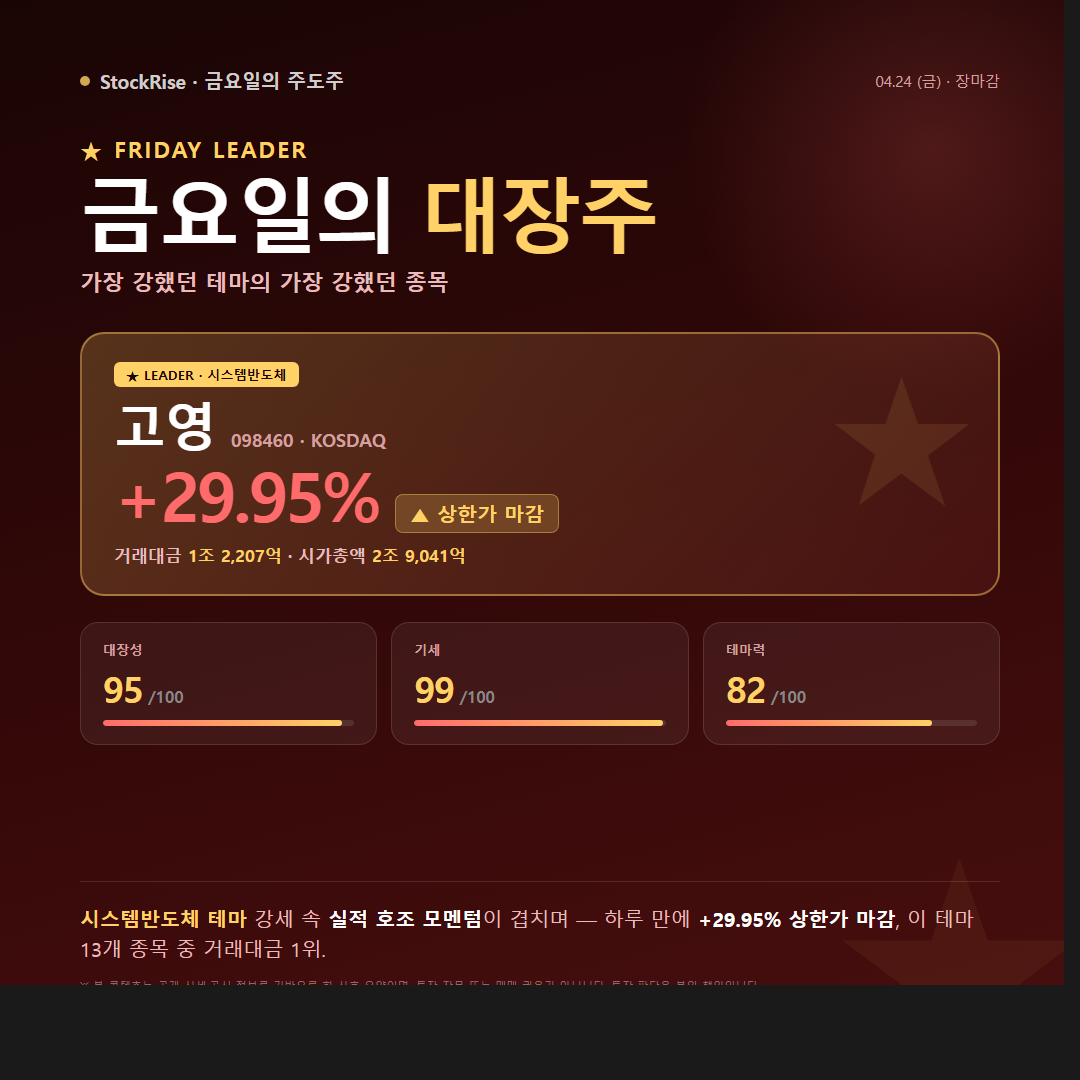
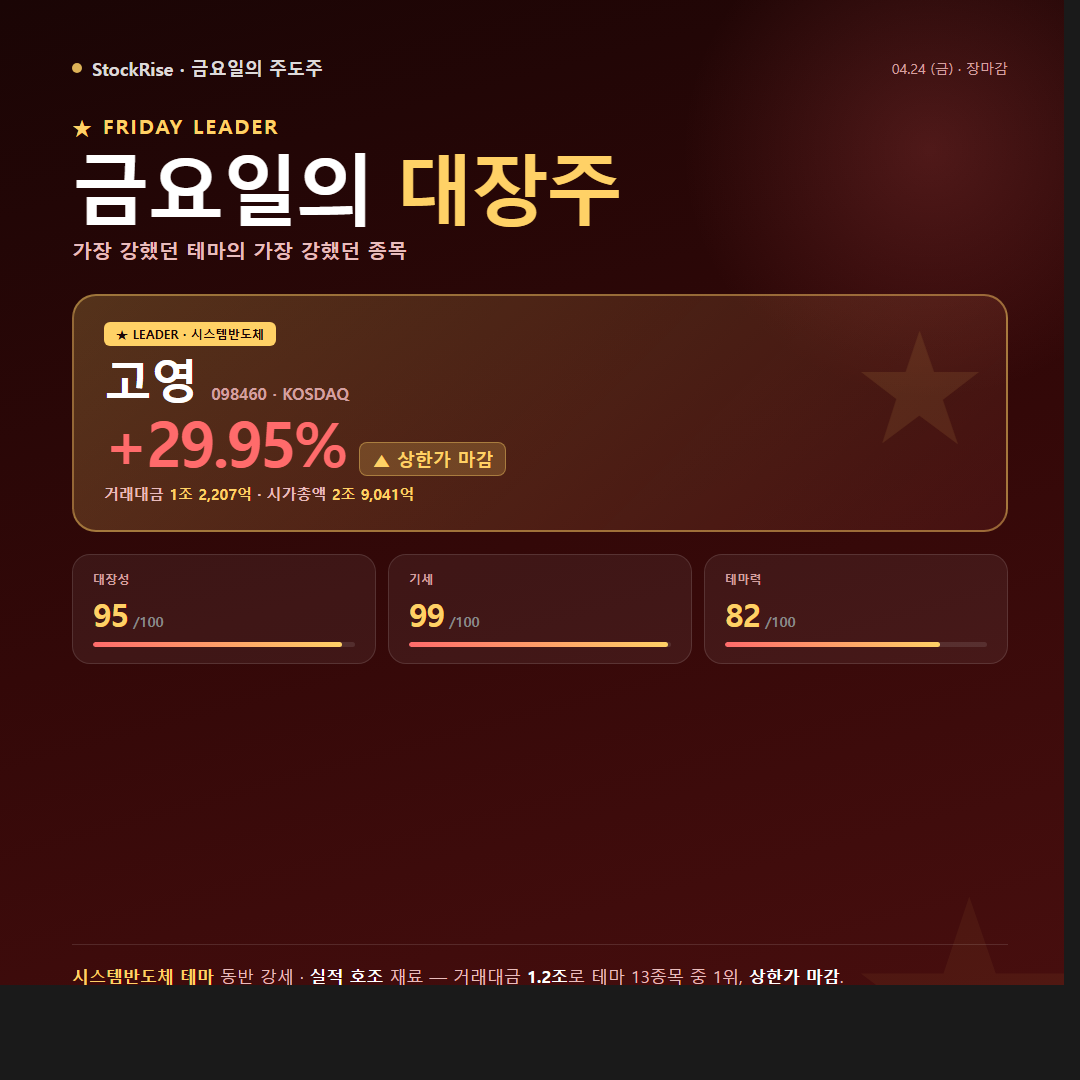
feat(cards): 금요일(4/24) 카드뉴스 6장으로 확장 + 오버플로우 수정
카드 시리즈 (6장):
- KEYWORDS 2장: 주도 테마 4개 개요 + 테마별 거래대금 상위 종목
- LEADER 2장: 대장주(고영 +29.95%) + 시스템반도체 테마 스토리(TOP 8)
- CLOSE 2장: 장마감 요약(KOSPI/KOSDAQ) + 핵심 이슈·섹터 리뷰

레이아웃 수정:
- disclaimer/footer가 잘려 보이던 문제 해결 (card-bottom 절대 위치 고정)
- 모든 카드 bottom 영역 padding 확보, 텍스트 명도 상향
- 6장 모두 1080x1080 경계 내 완전 표시 검증

cards.html:
- 3개 섹션(KEYWORDS/LEADER/CLOSE)으로 그룹화, 각 섹션에 2장씩 배치
- 각 카드별 다운로드·원본 열기 버튼 유지

diff --git a/public/cards.html b/public/cards.html
@@ -27,10 +27,16 @@ body{background:var(--bg-primary);margin:0;min-height:100vh}
 .cards-page__title{color:var(--text-primary);font-size:22px;font-weight:800;letter-spacing:-.3px}
 .cards-page__date{color:var(--text-muted);font-size:13px;font-weight:600}
 .cards-page__hint{color:var(--text-muted);font-size:13px;font-weight:500;margin-bottom:24px}
-.cards-list{display:flex;flex-direction:column;gap:28px;align-items:center}
-.cards-list__item{width:100%;max-width:1080px;display:flex;flex-direction:column;gap:10px}
-.cards-list__label{color:var(--text-primary);font-size:14px;font-weight:700;letter-spacing:.02em;display:flex;align-items:center;gap:10px}
-.cards-list__label-badge{display:inline-block;padding:3px 10px;background:var(--accent,#ff6b6b);color:#fff;border-radius:100px;font-size:11px;font-weight:800;letter-spacing:.05em;text-transform:uppercase}
+.cards-group{margin-top:32px}
+.cards-group:first-of-type{margin-top:0}
+.cards-group__head{display:flex;align-items:baseline;gap:12px;margin-bottom:14px;padding-bottom:10px;border-bottom:1px solid var(--border)}
+.cards-group__tag{display:inline-block;padding:4px 12px;background:var(--accent,#ff6b6b);color:#fff;border-radius:100px;font-size:11px;font-weight:800;letter-spacing:.05em;text-transform:uppercase}
+.cards-group__title{color:var(--text-primary);font-size:17px;font-weight:800;letter-spacing:-.2px}
+.cards-group__sub{color:var(--text-muted);font-size:12px;font-weight:500;margin-left:auto}
+.cards-list{display:flex;flex-direction:column;gap:20px;align-items:center}
+.cards-list__item{width:100%;max-width:1080px;display:flex;flex-direction:column;gap:8px}
+.cards-list__label{color:var(--text-primary);font-size:13px;font-weight:700;letter-spacing:.02em;display:flex;align-items:center;gap:10px}
+.cards-list__num{display:inline-block;width:22px;height:22px;line-height:22px;text-align:center;background:var(--bg-secondary);color:var(--text-primary);border:1px solid var(--border);border-radius:6px;font-size:11px;font-weight:800}
 .cards-list__img{width:100%;aspect-ratio:1/1;display:block;border-radius:16px;box-shadow:0 6px 32px rgba(0,0,0,.28);background:#1a1a1a}
 .cards-list__actions{display:flex;gap:8px;flex-wrap:wrap}
 .cards-list__action{padding:7px 14px;border:1px solid var(--border);background:var(--bg-secondary);color:var(--text-primary);border-radius:8px;font-size:12px;font-weight:600;text-decoration:none;cursor:pointer;transition:opacity .15s}
@@ -39,8 +45,10 @@ body{background:var(--bg-primary);margin:0;min-height:100vh}
 .disclaimer-box strong{color:var(--text-primary);font-weight:700;display:block;margin-bottom:4px}
 @media (max-width:600px){
   .cards-page{padding:20px 12px 40px}
-  .cards-list{gap:22px}
+  .cards-list{gap:16px}
   .cards-list__img{border-radius:12px}
+  .cards-group__head{flex-wrap:wrap}
+  .cards-group__sub{margin-left:0;width:100%}
 }
 </style>
 </head>
@@ -72,38 +80,87 @@ body{background:var(--bg-primary);margin:0;min-height:100vh}
 <main class="cards-page">
   <div class="cards-page__head">
     <div class="cards-page__title">금요일 카드뉴스</div>
-    <div class="cards-page__date">2026.04.24 (금) 마감 기준</div>
+    <div class="cards-page__date">2026.04.24 (금) 마감 기준 · 총 6장</div>
   </div>
-  <div class="cards-page__hint">SNS 공유용 1080×1080 — 길게 눌러 저장하거나 아래 다운로드 버튼을 누르세요.</div>
+  <div class="cards-page__hint">SNS 공유용 1080×1080 이미지 — 길게 눌러 저장하거나 아래 다운로드 버튼을 이용하세요.</div>
 
-  <div class="cards-list">
-    <div class="cards-list__item">
-      <div class="cards-list__label"><span class="cards-list__label-badge">KEYWORDS</span>금요일 달궜던 키워드</div>
-      <img class="cards-list__img" src="/cards/20260424-pre.png" alt="금요일 달궜던 키워드 카드">
-      <div class="cards-list__actions">
-        <a class="cards-list__action" href="/cards/20260424-pre.png" download>다운로드</a>
-        <a class="cards-list__action" href="/cards/20260424-pre.png" target="_blank" rel="noopener">원본 열기</a>
+  <section class="cards-group">
+    <div class="cards-group__head">
+      <span class="cards-group__tag">KEYWORDS</span>
+      <div class="cards-group__title">키워드 시리즈</div>
+      <span class="cards-group__sub">금요일 주도 테마 개요 · 2장</span>
+    </div>
+    <div class="cards-list">
+      <div class="cards-list__item">
+        <div class="cards-list__label"><span class="cards-list__num">01</span>금요일 달궜던 키워드</div>
+        <img class="cards-list__img" src="/cards/20260424-pre.png" alt="금요일 주도 키워드 4개">
+        <div class="cards-list__actions">
+          <a class="cards-list__action" href="/cards/20260424-pre.png" download>다운로드</a>
+          <a class="cards-list__action" href="/cards/20260424-pre.png" target="_blank" rel="noopener">원본 열기</a>
+        </div>
+      </div>
+      <div class="cards-list__item">
+        <div class="cards-list__label"><span class="cards-list__num">02</span>금요일 이 종목이 움직였다</div>
+        <img class="cards-list__img" src="/cards/20260424-pre2.png" alt="금요일 테마별 거래대금 상위 종목">
+        <div class="cards-list__actions">
+          <a class="cards-list__action" href="/cards/20260424-pre2.png" download>다운로드</a>
+          <a class="cards-list__action" href="/cards/20260424-pre2.png" target="_blank" rel="noopener">원본 열기</a>
+        </div>
       </div>
     </div>
+  </section>
 
-    <div class="cards-list__item">
-      <div class="cards-list__label"><span class="cards-list__label-badge">LEADER</span>금요일의 대장주</div>
-      <img class="cards-list__img" src="/cards/20260424-leader.png" alt="금요일 대장주 카드">
-      <div class="cards-list__actions">
-        <a class="cards-list__action" href="/cards/20260424-leader.png" download>다운로드</a>
-        <a class="cards-list__action" href="/cards/20260424-leader.png" target="_blank" rel="noopener">원본 열기</a>
+  <section class="cards-group">
+    <div class="cards-group__head">
+      <span class="cards-group__tag">LEADER</span>
+      <div class="cards-group__title">대장주 시리즈</div>
+      <span class="cards-group__sub">금요일 가장 강했던 종목·테마 · 2장</span>
+    </div>
+    <div class="cards-list">
+      <div class="cards-list__item">
+        <div class="cards-list__label"><span class="cards-list__num">01</span>금요일의 대장주</div>
+        <img class="cards-list__img" src="/cards/20260424-leader.png" alt="금요일 대장주 고영">
+        <div class="cards-list__actions">
+          <a class="cards-list__action" href="/cards/20260424-leader.png" download>다운로드</a>
+          <a class="cards-list__action" href="/cards/20260424-leader.png" target="_blank" rel="noopener">원본 열기</a>
+        </div>
+      </div>
+      <div class="cards-list__item">
+        <div class="cards-list__label"><span class="cards-list__num">02</span>왜 금요일 이 테마였나</div>
+        <img class="cards-list__img" src="/cards/20260424-leader2.png" alt="시스템반도체 테마 스토리">
+        <div class="cards-list__actions">
+          <a class="cards-list__action" href="/cards/20260424-leader2.png" download>다운로드</a>
+          <a class="cards-list__action" href="/cards/20260424-leader2.png" target="_blank" rel="noopener">원본 열기</a>
+        </div>
       </div>
     </div>
+  </section>
 
-    <div class="cards-list__item">
-      <div class="cards-list__label"><span class="cards-list__label-badge">CLOSE</span>장 마감 한 줄 요약</div>
-      <img class="cards-list__img" src="/cards/20260424-close.png" alt="장 마감 요약 카드">
-      <div class="cards-list__actions">
-        <a class="cards-list__action" href="/cards/20260424-close.png" download>다운로드</a>
-        <a class="cards-list__action" href="/cards/20260424-close.png" target="_blank" rel="noopener">원본 열기</a>
+  <section class="cards-group">
+    <div class="cards-group__head">
+      <span class="cards-group__tag">CLOSE</span>
+      <div class="cards-group__title">장마감 시리즈</div>
+      <span class="cards-group__sub">지수·이슈·섹터 총정리 · 2장</span>
+    </div>
+    <div class="cards-list">
+      <div class="cards-list__item">
+        <div class="cards-list__label"><span class="cards-list__num">01</span>장 마감, 한 줄 요약</div>
+        <img class="cards-list__img" src="/cards/20260424-close.png" alt="장마감 한 줄 요약">
+        <div class="cards-list__actions">
+          <a class="cards-list__action" href="/cards/20260424-close.png" download>다운로드</a>
+          <a class="cards-list__action" href="/cards/20260424-close.png" target="_blank" rel="noopener">원본 열기</a>
+        </div>
+      </div>
+      <div class="cards-list__item">
+        <div class="cards-list__label"><span class="cards-list__num">02</span>금요일, 무슨 일이 있었나</div>
+        <img class="cards-list__img" src="/cards/20260424-close2.png" alt="금요일 이슈 및 섹터 리뷰">
+        <div class="cards-list__actions">
+          <a class="cards-list__action" href="/cards/20260424-close2.png" download>다운로드</a>
+          <a class="cards-list__action" href="/cards/20260424-close2.png" target="_blank" rel="noopener">원본 열기</a>
+        </div>
       </div>
     </div>
-  </div>
+  </section>
 
   <div class="disclaimer-box">
     <strong>※ 정보 제공 목적 · 매매 권유 아님</strong>
